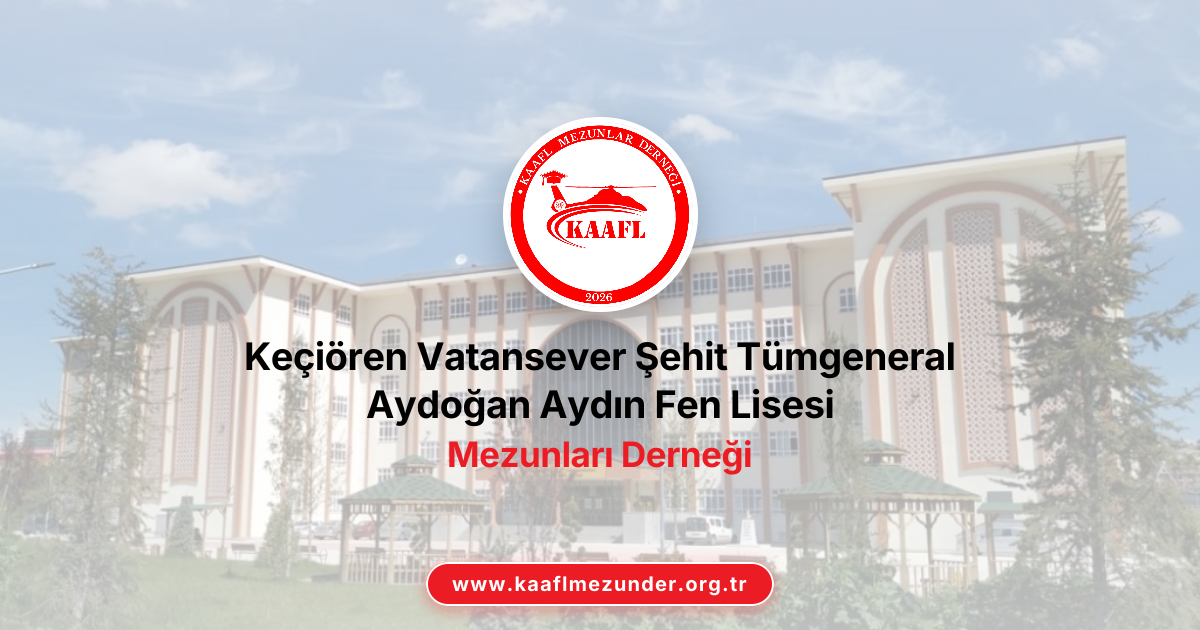
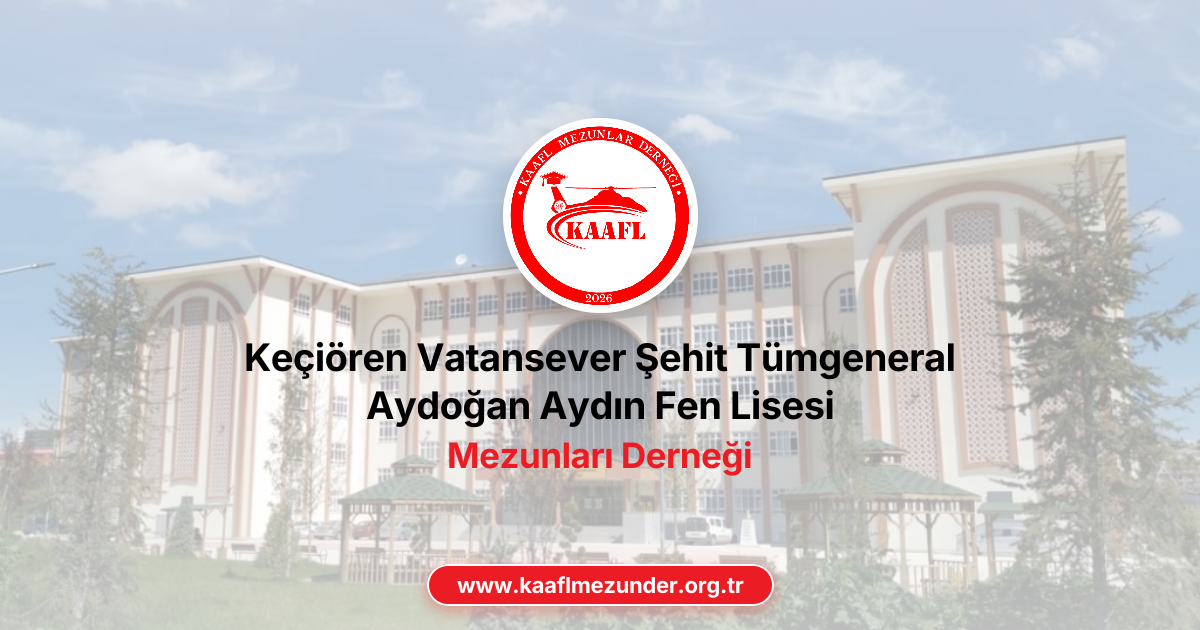
style(branding): unify font and kerning of domain badge to exact Inter Bold

diff --git a/src/app/opengraph-image.tsx b/src/app/opengraph-image.tsx
@@ -166,7 +166,7 @@ export default async function OpenGraphImage() {
           </h1>
         </div>
 
-        {/* Bottom clean red domain badge with white text */}
+        {/* Bottom clean red domain badge with identical Inter Bold typography */}
         <div
           style={{
             display: "flex",
@@ -175,22 +175,31 @@ export default async function OpenGraphImage() {
             paddingBottom: "24px",
           }}
         >
-          <span
+          <div
             style={{
-              fontSize: "20px",
-              fontWeight: 700,
-              color: "#ffffff",
-              letterSpacing: "1.2px",
-              fontFamily: "Inter",
+              display: "flex",
+              alignItems: "center",
+              justifyContent: "center",
               background: brandRed,
-              padding: "8px 24px",
+              padding: "8px 28px",
               borderRadius: "9999px",
               boxShadow: "0 4px 15px rgba(236, 28, 36, 0.35)",
               border: "2px solid #ffffff",
             }}
           >
-            www.kaaflmezunder.org.tr
-          </span>
+            <span
+              style={{
+                fontSize: "22px",
+                fontWeight: 700,
+                color: "#ffffff",
+                letterSpacing: "-0.3px",
+                fontFamily: "Inter",
+                lineHeight: 1,
+              }}
+            >
+              www.kaaflmezunder.org.tr
+            </span>
+          </div>
         </div>
       </div>
     ),

diff --git a/src/app/layout.tsx b/src/app/layout.tsx
@@ -63,7 +63,7 @@ export const metadata: Metadata = {
     description: associationDescription,
     images: [
       {
-        url: "/images/og-image.jpg?v=8",
+        url: "/images/og-image.jpg?v=9",
         width: 1200,
         height: 630,
         type: "image/jpeg",
@@ -75,7 +75,7 @@ export const metadata: Metadata = {
     card: "summary_large_image",
     title: `${associationName} | KAAFL Mezunları Derneği`,
     description: associationDescription,
-    images: ["/images/og-image.jpg?v=8"],
+    images: ["/images/og-image.jpg?v=9"],
   },
   robots: {
     index: true,

diff --git a/src/config/site.ts b/src/config/site.ts
@@ -13,7 +13,7 @@ export const siteConfig = {
   name: associationName,
   shortName: associationShortName,
   url: siteUrl,
-  ogImage: `${siteUrl}/images/og-image.jpg?v=8`,
+  ogImage: `${siteUrl}/images/og-image.jpg?v=9`,
   logoUrl: `${siteUrl}/logo-dernek.jpg`,
   faviconUrl: `${siteUrl}/logo-dernek.svg`,
   description: associationDescription,
